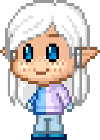
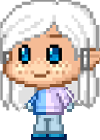
Fixed design. Fixed 2 player mode life losing.

diff --git a/FrozenWorld/Form1_2Player.cs b/FrozenWorld/Form1_2Player.cs
@@ -97,11 +97,11 @@ namespace FrozenWorld
             statusStrip1.ForeColor = Color.White;
             tsslPlayer1Snowflakes.Text = string.Format("Snowflakes: {0}/{1}", game.collectedSnowflakesPlayer1, game.TOTALSNOWFLAKES);
             tsspbPlayer1FrozenMeter.Value = game.frozenItemsPlayer1 <= tsspbPlayer1FrozenMeter.Maximum? game.frozenItemsPlayer1: tsspbPlayer1FrozenMeter.Maximum;
-            tsslPlayer1Lives.Text = string.Format("Lives left: {0}/{1}", game.Player1.LivesLeft, 5);
+            tsslPlayer1Lives.Text = string.Format("Lives left: {0}/{1}", game.Player1.LivesLeft >= 0 ? game.Player1.LivesLeft : 0, 5);
 
             tsslPlayer2Snowflakes.Text = string.Format("Snowflakes: {0}/{1}", game.collectedSnowflakesPlayer2, game.TOTALSNOWFLAKES);
             tsspbPlayer2FrozenMeter.Value = game.frozenItemsPlayer2 <= tsspbPlayer2FrozenMeter.Maximum ? game.frozenItemsPlayer2 : tsspbPlayer2FrozenMeter.Maximum;
-            tsslPlayer2Lives.Text = string.Format("Lives left: {0}/{1}", game.Player2.LivesLeft, 5);
+            tsslPlayer2Lives.Text = string.Format("Lives left: {0}/{1}", game.Player2.LivesLeft >= 0 ? game.Player2.LivesLeft : 0, 5);
         }
 
         private void Form1_2Player_KeyDown(object sender, KeyEventArgs e)

diff --git a/FrozenWorld/Form1.cs b/FrozenWorld/Form1.cs
@@ -127,7 +127,7 @@ namespace FrozenWorld
             statusStrip1.ForeColor = Color.White;
             tsslSnowflakes.Text = string.Format("Snowflakes: {0}/{1}",game.collectedSnowflakes,game.TOTALSNOWFLAKES);
             tsspbFreezables.Value = game.getFrozenBlockNumber();
-            tsslLivesLeft.Text = string.Format("Lives left: {0}/{1}", game.Player.LivesLeft, 5);
+            tsslLivesLeft.Text = string.Format("Lives left: {0}/{1}", game.Player.LivesLeft>=0? game.Player.LivesLeft:0, 5);
         }
         public void SaveFile()
         {
